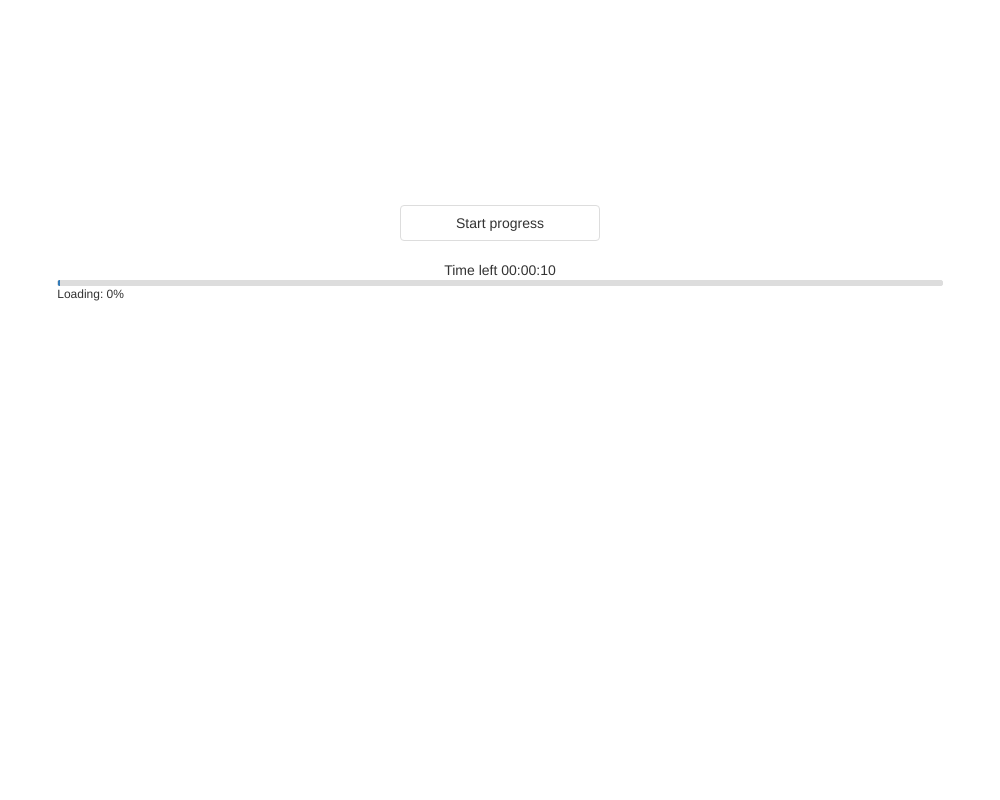
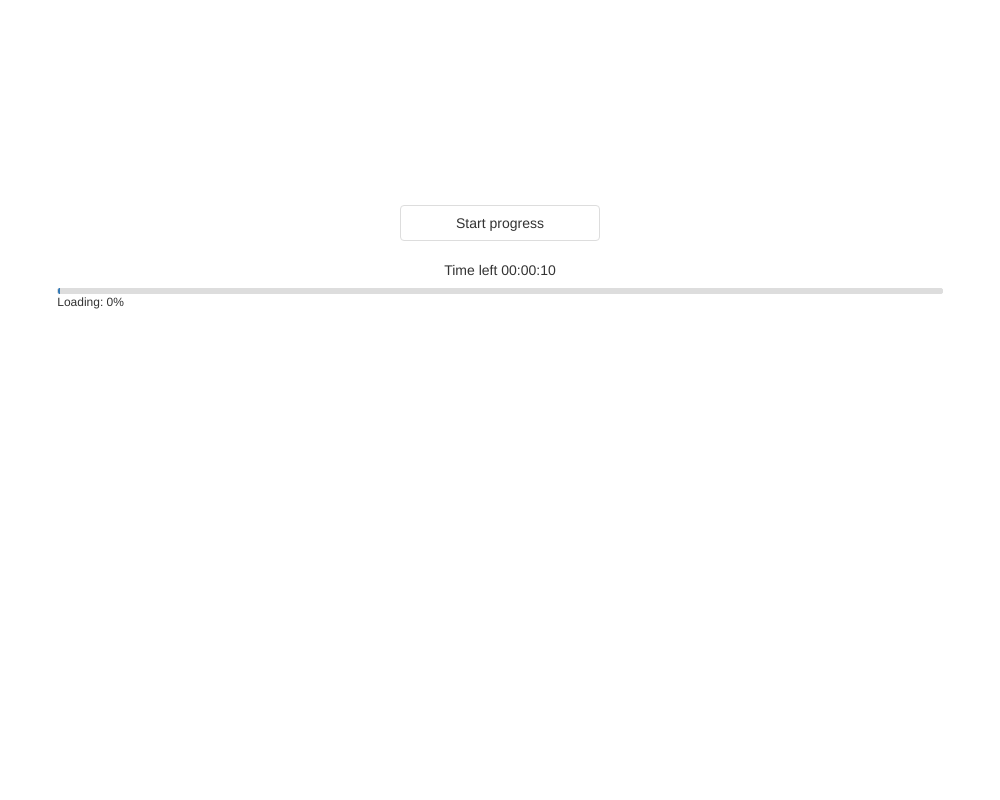
ProgressBar: update padding (#2968)

Changed region(s): [[0.062, 0.3438, 0.961, 0.4062]]

diff --git a/JSDemos/Demos/ProgressBar/Overview/Angular/app/app.component.css b/JSDemos/Demos/ProgressBar/Overview/Angular/app/app.component.css
@@ -9,6 +9,7 @@
 
 ::ng-deep #progress-bar-status {
   display: inline-block;
+  padding-top: 8px;
 }
 
 ::ng-deep .complete .dx-progressbar-range {

diff --git a/JSDemos/Demos/ProgressBar/Overview/Vue/App.vue b/JSDemos/Demos/ProgressBar/Overview/Vue/App.vue
@@ -96,6 +96,7 @@ export default {
 
 #progress-bar-status {
   display: inline-block;
+  padding-top: 8px;
 }
 
 .complete .dx-progressbar-range {

diff --git a/MVCDemos/Content/DemosStyles/ProgressBar/Overview.css b/MVCDemos/Content/DemosStyles/ProgressBar/Overview.css
@@ -9,6 +9,7 @@
 
 #progressBarStatus {
     display: inline-block;
+    padding-top: 8px;
 }
 
 .complete .dx-progressbar-range {

diff --git a/NetCoreDemos/wwwroot/css/DemosStyles/ProgressBar/Overview.css b/NetCoreDemos/wwwroot/css/DemosStyles/ProgressBar/Overview.css
@@ -9,6 +9,7 @@
 
 #progressBarStatus {
     display: inline-block;
+    padding-top: 8px;
 }
 
 .complete .dx-progressbar-range {

diff --git a/JSDemos/Demos/ProgressBar/Overview/React/styles.css b/JSDemos/Demos/ProgressBar/Overview/React/styles.css
@@ -9,6 +9,7 @@
 
 #progress-bar-status {
   display: inline-block;
+  padding-top: 8px;
 }
 
 .complete .dx-progressbar-range {

diff --git a/JSDemos/Demos/ProgressBar/Overview/jQuery/styles.css b/JSDemos/Demos/ProgressBar/Overview/jQuery/styles.css
@@ -9,6 +9,7 @@
 
 #progressBarStatus {
   display: inline-block;
+  padding-top: 8px;
 }
 
 .complete .dx-progressbar-range {
